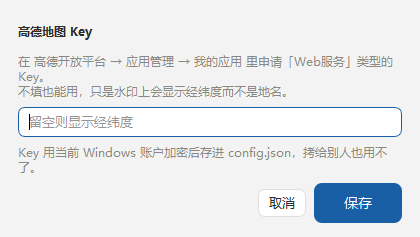
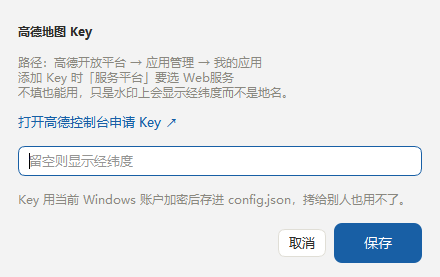
feat(设置): 弹窗里加直达高德控制台的申请链接
说明文字保留「高德开放平台 → 应用管理 → 我的应用」的具体路径，
下面加一行可点的链接，省得用户照着文字自己翻控制台。

Changed region(s): [[0.031, 0.2068, 0.9595, 0.9747], [0.031, 0.0886, 0.2167, 0.1772]]

diff --git a/ui/main_window.py b/ui/main_window.py
@@ -70,6 +70,8 @@ COLOR_PRESETS = [
 DEFAULT_COLOR = (255, 255, 255)
 DARK_COLOR = (58, 58, 56)
 ACCENT = "#185FA5"
+# 高德「我的应用」页：创建应用、看 Key 都在这里
+AMAP_KEY_URL = "https://console.amap.com/dev/key/app"
 
 # 描边色常用就这几个，其余交给取色器
 OUTLINE_PRESETS = [
@@ -1195,19 +1197,29 @@ class MainWindow(QMainWindow):
         dialog = QDialog(self)
         dialog.setWindowTitle("设置")
         dialog.setWindowIcon(settings_icon())
-        dialog.setMinimumWidth(420)
+        dialog.setMinimumWidth(440)
         box = QVBoxLayout(dialog)
         box.setContentsMargins(18, 16, 18, 14)
         box.setSpacing(8)
 
         box.addWidget(self._section("高德地图 Key"))
         tip = QLabel(
-            "在 高德开放平台 → 应用管理 → 我的应用 里申请「Web服务」类型的 Key。\n"
+            "路径：高德开放平台 → 应用管理 → 我的应用\n"
+            "添加 Key 时「服务平台」要选 Web服务\n"
             "不填也能用，只是水印上会显示经纬度而不是地名。"
         )
         tip.setObjectName("hint")
         tip.setWordWrap(True)
         box.addWidget(tip)
+
+        # 直接给个能点的入口，省得用户照着文字去翻控制台
+        link = QLabel(f'<a href="{AMAP_KEY_URL}" style="color:{ACCENT}; text-decoration:none;">'
+                      "打开高德控制台申请 Key ↗</a>")
+        link.setTextFormat(Qt.RichText)
+        link.setOpenExternalLinks(True)  # 交给系统默认浏览器
+        link.setCursor(Qt.PointingHandCursor)
+        link.setToolTip(AMAP_KEY_URL)
+        box.addWidget(link)
 
         edit = QLineEdit(self._api_key)
         edit.setEchoMode(QLineEdit.Password)

diff --git a/tools/make_readme_shots.py b/tools/make_readme_shots.py
@@ -58,10 +58,12 @@ def main() -> int:
     window.refresh_preview()
     pump(app, 3.0)
     window.grab().save(str(OUT / "screenshot-main.png"))
+    print("screenshot-main.png", flush=True)
 
     window._set_place_style("full")
     pump(app, 2.5)
     window.grab().save(str(OUT / "screenshot-full.png"))
+    print("screenshot-full.png", flush=True)
 
     # 设置弹窗是模态的，临时把 exec 换成 show 才能截到
     original_exec = QDialog.exec

diff --git a/README.md b/README.md
@@ -80,6 +80,8 @@ python -m venv .venv
 3. 添加 Key，**服务平台选「Web服务」**（不是「Web端(JS API)」）
 4. 复制 Key，粘到程序的「设置」里
 
+程序「设置」弹窗里也有直达链接（「打开高德控制台申请 Key ↗」），点一下就用默认浏览器打开上面那个页面。
+
 ![设置弹窗](docs/screenshot-settings.png)
 
 ## 命令行
